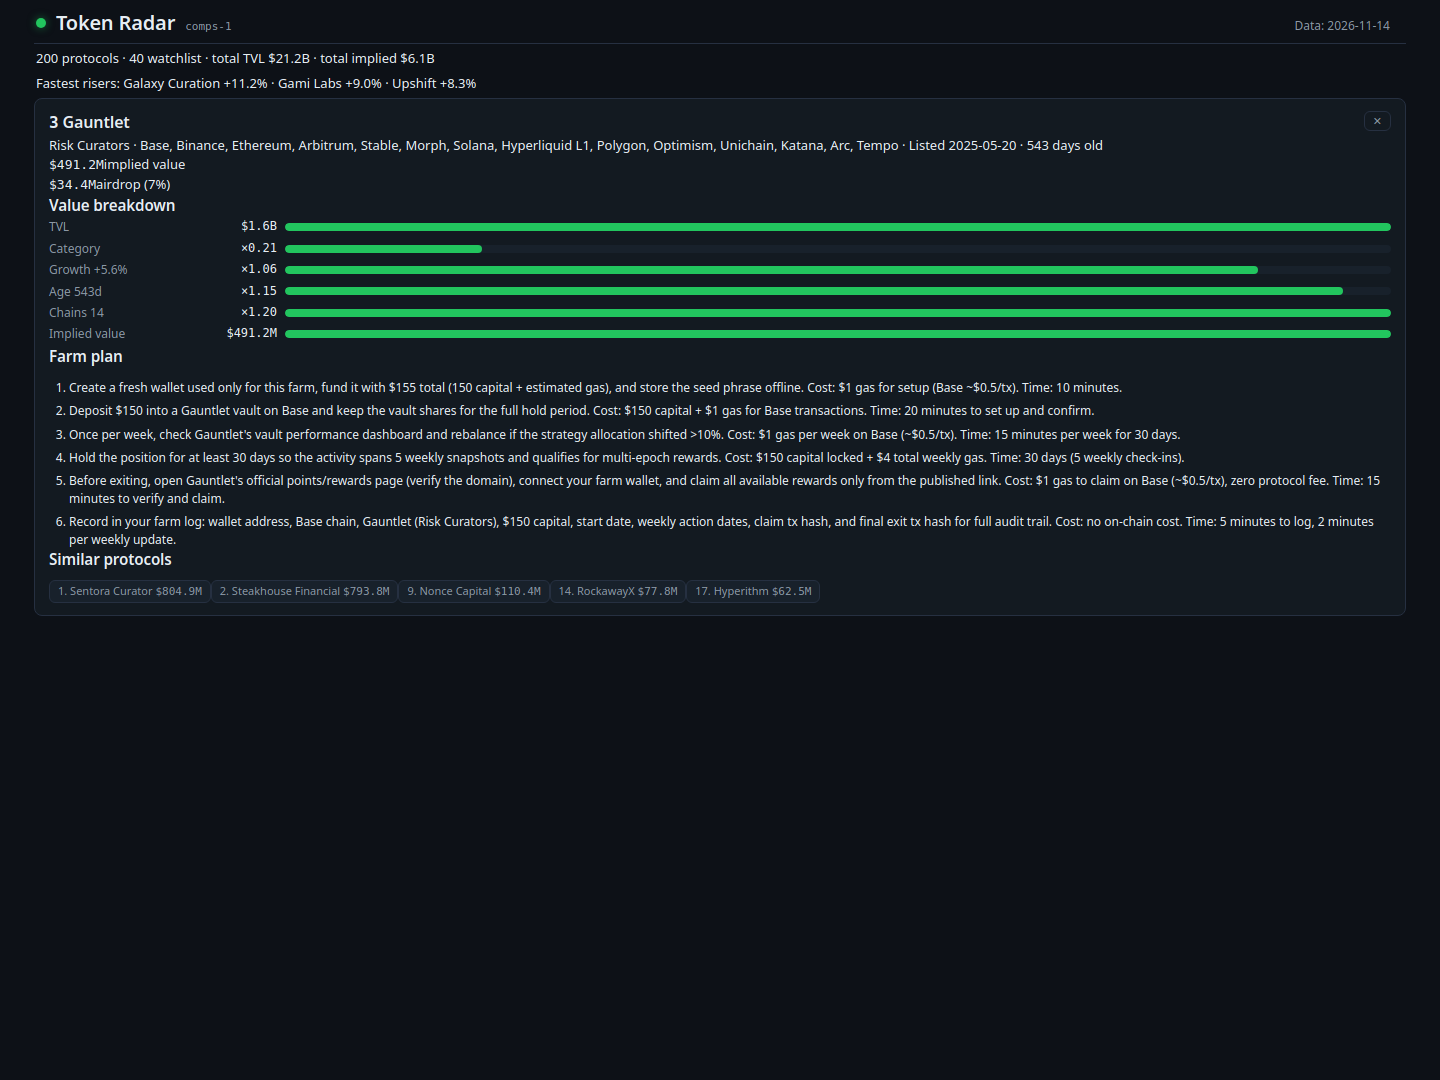
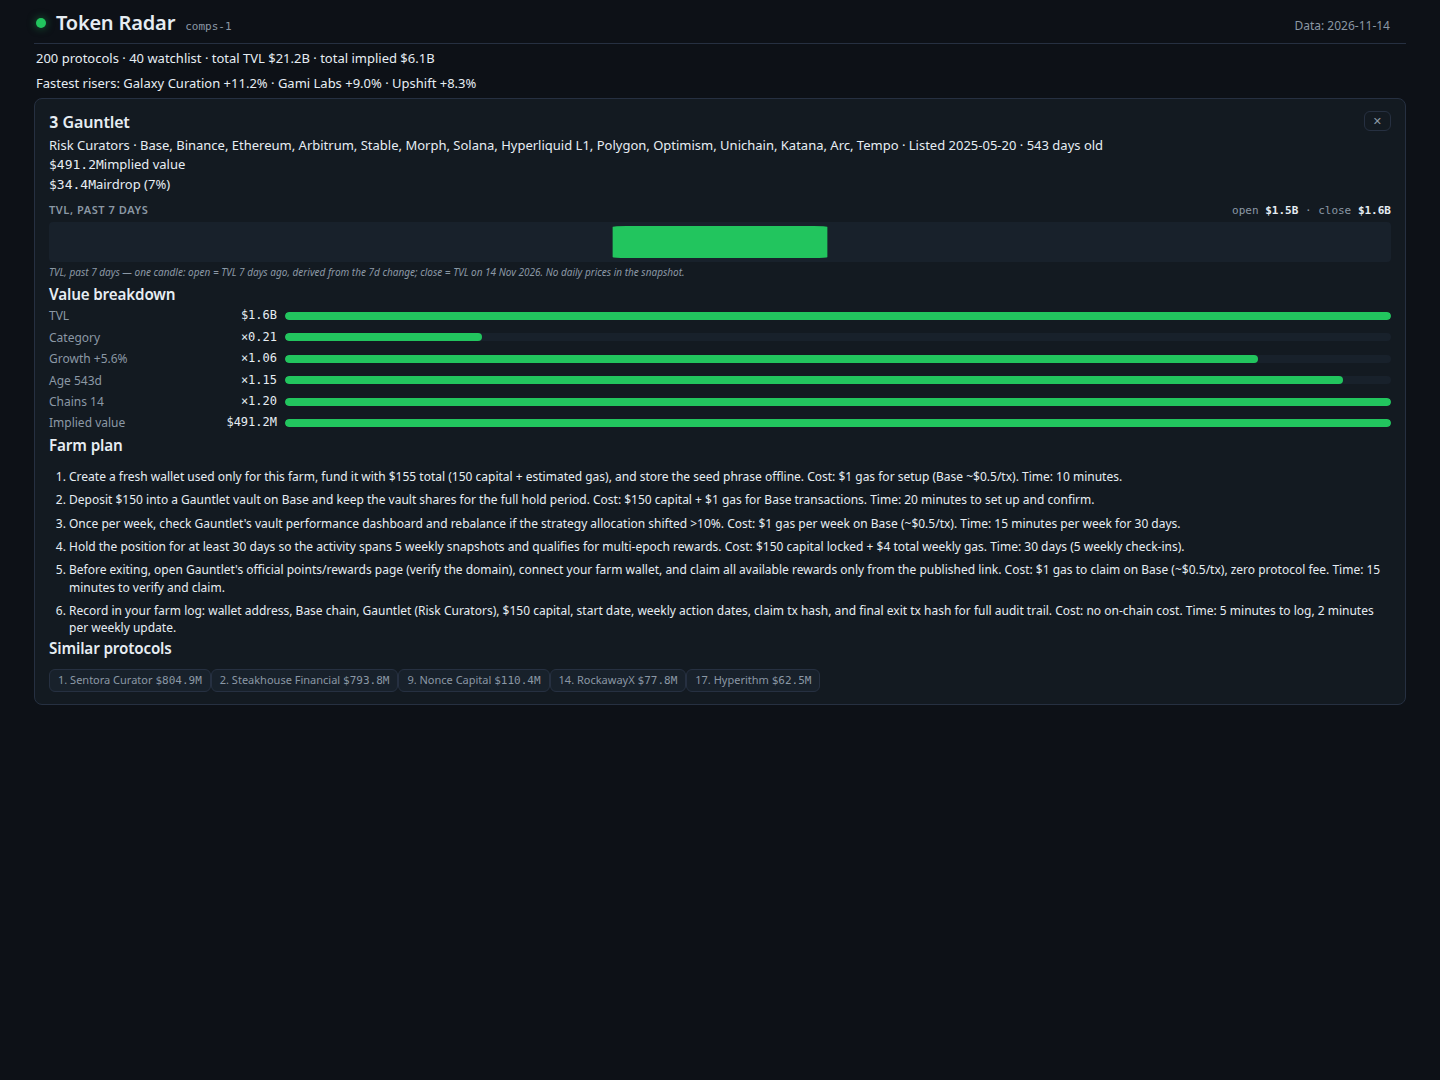
Fase 5: hero shot lengkap (From/Risk, filter, metodologi, candle TVL 1 minggu) + screenshot metodologi (4 shots)

Changed region(s): [[0.0312, 0.1833, 0.9688, 0.6417]]

diff --git a/dashboard/app.css b/dashboard/app.css
@@ -181,6 +181,18 @@ button { cursor: pointer; }
 .breakdown-row .br-label { width: 150px; flex: none; color: var(--muted); }
 .breakdown-row .br-mult { font-family: var(--font-num); width: 70px; text-align: right; flex: none; }
 .breakdown-row .br-bar { flex: 1; }
+/* One-candle TVL chart: open derived from the 7d change, close = current TVL. */
+.tvl-candle { margin: 8px 0 4px; }
+.tvl-candle-top { display: flex; align-items: baseline; justify-content: space-between; gap: 8px; }
+.tvl-candle-top .tvl-title { color: var(--muted); font-size: 11px; font-weight: 600; text-transform: uppercase; letter-spacing: 0.05em; }
+.tvl-candle-nums { font-family: var(--font-num); font-size: 11px; color: var(--muted); }
+.tvl-candle-nums b { color: var(--ink); font-weight: 600; }
+.tvl-svg { display: block; width: 100%; height: 40px; margin: 3px 0; background: var(--surface2); border-radius: 4px; }
+.tvl-candle-body.up { fill: var(--accent); }
+.tvl-candle-body.down { fill: var(--negative); }
+.tvl-candle-note { color: var(--muted); font-size: 10px; line-height: 1.4; font-style: italic; }
+.tvl-candle-empty { color: var(--muted); font-size: 11px; font-style: italic; margin: 6px 0; }
+
 .peers { margin-top: 10px; }
 .peers h3 { font-size: 12px; color: var(--muted); text-transform: uppercase; letter-spacing: 0.05em; margin-bottom: 4px; }
 .peers-list { display: flex; flex-wrap: wrap; gap: 6px; }
@@ -206,6 +218,21 @@ button { cursor: pointer; }
 .method p, .method li { font-size: 12px; color: var(--muted); line-height: 1.5; }
 .method .formula { font-family: var(--font-num); color: var(--ink); font-size: 11px; background: var(--surface2); border-radius: 6px; padding: 6px 10px; margin: 6px 0; display: block; overflow-x: auto; white-space: nowrap; }
 .method ul { margin: 4px 0 0; padding-left: 18px; }
+.method .cat-multiples, .method .method-honest { display: none; }
+.method .cat-multiples { margin-top: 8px; }
+.method .cat-multiples h3 {
+  font-size: 11px; color: var(--muted); text-transform: uppercase;
+  letter-spacing: 0.05em; margin-bottom: 4px;
+}
+.multiples { width: 100%; border-collapse: collapse; font-size: 11.5px; }
+.multiples td { padding: 1px 10px 1px 0; vertical-align: middle; white-space: nowrap; }
+.multiples .cat-name { color: var(--ink); }
+.multiples .cat-mult { color: var(--accent); font-family: var(--font-num); font-variant-numeric: tabular-nums; }
+.multiples .global-tag { color: var(--muted); font-size: 10px; font-style: italic; }
+.method .method-honest {
+  margin-top: 8px; padding-top: 6px; border-top: 1px solid var(--border);
+  color: var(--muted); font-style: italic;
+}
 
 /* Live-token section */
 .live { margin-top: 12px; border: 1px solid var(--border); border-radius: var(--radius); background: var(--surface); overflow: hidden; }
@@ -229,18 +256,45 @@ button { cursor: pointer; }
 
 /* Hero / command-center view (?view=hero): one 1440x1080 frame. */
 .hero .shell { max-width: 1400px; display: grid; grid-template-columns: minmax(0, 1.55fr) minmax(0, 1fr); column-gap: 14px; }
-.hero .top, .hero #stats, .hero #risers, .hero #live { grid-column: 1 / -1; }
-.hero #tabs, .hero #howto, .hero #filters, .hero #method, .hero #honest { display: none; }
-.hero .board-wrap { grid-column: 1; grid-row: 4; }
-.hero #detail { grid-column: 2; grid-row: 4; margin-top: 0; }
-.hero #live { grid-row: 5; margin-top: 10px; padding: 6px 12px; font-size: 11.5px; color: var(--muted); }
+.hero .top { grid-column: 1 / -1; grid-row: 1; }
+.hero #stats { grid-column: 1 / -1; grid-row: 2; }
+.hero #risers { grid-column: 1 / -1; grid-row: 3; }
+.hero #tabs, .hero #howto { display: none; }
+.hero #filters {
+  display: flex; flex-wrap: nowrap; align-items: center; gap: 6px;
+  grid-column: 1 / -1; grid-row: 4; padding: 3px 2px 5px;
+  min-width: 0; overflow: hidden;
+}
+.hero #filters .chips { display: flex; flex-wrap: nowrap; gap: 6px; flex: 1 1 auto; min-width: 0; overflow: hidden; }
+.hero #filters input[type="search"], .hero #filters input[type="text"], .hero #filters select, .hero #filters > .chip { flex: none; }
+.hero #filters input[type="search"], .hero #filters input[type="text"] { width: 160px; }
+.hero .board-wrap { grid-column: 1; grid-row: 5; }
+.hero #detail { grid-column: 2; grid-row: 5; margin-top: 0; }
+.hero #live { grid-column: 1 / -1; grid-row: 6; margin-top: 8px; padding: 5px 12px; font-size: 11.5px; color: var(--muted); }
 .hero #live strong { color: var(--accent); }
-.hero .board th:nth-child(8), .hero .board td:nth-child(8),
-.hero .board th:nth-child(9), .hero .board td:nth-child(9),
-.hero .board th:nth-child(10), .hero .board td:nth-child(10) { display: none; }
-.hero .board { font-size: 11px; }
-.hero .board tbody td { padding: 2px 6px; }
-.hero .detail { padding: 10px 12px; }
+.hero #method {
+  display: block; grid-column: 1 / -1; grid-row: 7;
+  margin-top: 8px; padding: 5px 10px;
+}
+.hero #method h2 { font-size: 12px; margin-bottom: 2px; }
+.hero #method .cat-multiples, .hero #method .method-honest { display: none; }
+.hero #method p {
+  display: -webkit-box; -webkit-line-clamp: 2; -webkit-box-orient: vertical;
+  overflow: hidden; font-size: 11px; line-height: 1.4;
+}
+.hero .board th:nth-child(8), .hero .board td:nth-child(8) { display: none; }
+.hero .board { font-size: 11px; table-layout: fixed; width: 100%; }
+.hero .board th, .hero .board td { padding: 1px 4px; }
+.hero .board thead th { font-size: 9.5px; padding: 3px 4px; }
+.hero .board tbody tr { height: 22px; }
+.hero .board td.name { max-width: 150px; }
+.hero .board td.cat { max-width: 74px; }
+.hero .board th:nth-child(1), .hero .board td:nth-child(1) { width: 32px; }
+.hero .board th:nth-child(3), .hero .board td:nth-child(3) { width: 78px; }
+.hero .board th:nth-child(9), .hero .board td:nth-child(9) { width: 56px; }
+.hero .board th:nth-child(10), .hero .board td:nth-child(10) { width: 74px; }
+.hero .honest { padding: 4px 8px; font-size: 10px; }
+.hero .detail { padding: 8px 10px; }
 .hero .detail h2 { font-size: 15px; }
 .hero .detail .steps li { font-size: 11.5px; }
 .hero .detail .breakdown-row { font-size: 11.5px; }
@@ -251,6 +305,14 @@ button { cursor: pointer; }
 /* Detail-only view (?view=detail&detail=<slug>): hide the board, show the panel at top. */
 .detail-view .board-wrap, .detail-view #tabs, .detail-view #howto, .detail-view #filters, .detail-view #method, .detail-view #live { display: none; }
 .detail-view #detail { margin-top: 0; }
+
+/* Methodology-only view (?view=method): hide the board, show the method box full-width and readable. */
+.method-view .board-wrap, .method-view #tabs, .method-view #howto, .method-view #filters,
+.method-view #detail, .method-view #live { display: none; }
+.method-view #method { margin-top: 10px; padding: 12px 16px; }
+.method-view #method p { font-size: 12.5px; }
+.method-view .cat-multiples { margin-top: 10px; }
+.method-view .method .cat-multiples, .method-view .method .method-honest { display: block; }
 
 /* Hide the empty detail panel until a row is clicked. */
 .detail:empty { display: none; }

diff --git a/dashboard/app.js b/dashboard/app.js
@@ -8,6 +8,7 @@
   var PARAM_CATEGORY = PARAMS.get('category') || '';
   var PARAM_DETAIL = PARAMS.get('detail') || '';
   var DETAIL_VIEW = PARAMS.get('view') === 'detail';
+  var METHOD_VIEW = PARAMS.get('view') === 'method';
   if (PARAM_CATEGORY) S.category = PARAM_CATEGORY;
 
   function esc(s) {
@@ -61,10 +62,50 @@
     }
   }
 
+  var HONEST_TEXT = 'Implied value is an estimate from 14 Nov 2026 data, not a promise a token will launch.';
+
+  function categoryMultiplesHtml() {
+    var seen = {}, cats = [];
+    rows.forEach(function (r) {
+      var c = r.category || 'Uncategorized';
+      if (!(c in seen)) { seen[c] = r.category_multiple; cats.push(c); }
+    });
+    var freq = {};
+    cats.forEach(function (c) { var k = String(seen[c]); freq[k] = (freq[k] || 0) + 1; });
+    var globalKey = null, gmax = -1;
+    Object.keys(freq).forEach(function (k) {
+      if (freq[k] > gmax) { gmax = freq[k]; globalKey = k; }
+    });
+    var list = cats.map(function (c) {
+      return { name: c, mult: seen[c], global: String(seen[c]) === globalKey };
+    }).sort(function (a, b) {
+      return b.mult - a.mult || a.name.localeCompare(b.name);
+    });
+    function fmt(v) { return '\u00d7' + Number(v).toFixed(2).replace('.', ','); }
+    var half = Math.ceil(list.length / 2);
+    var html = '<div class="cat-multiples"><h3>Category multiples used by the board</h3><table class="multiples"><tbody>';
+    for (var i = 0; i < half; i++) {
+      html += '<tr>';
+      for (var col = 0; col < 2; col++) {
+        var item = list[col === 0 ? i : i + half];
+        if (!item) { html += '<td></td>'; continue; }
+        html += '<td><span class="cat-name">' + esc(item.name) + '</span> ' +
+          '<span class="cat-mult">' + fmt(item.mult) + '</span>' +
+          (item.global ? ' <span class="global-tag">global median</span>' : '') + '</td>';
+      }
+      html += '</tr>';
+    }
+    return html + '</tbody></table></div>';
+  }
+
   function renderHowto() {
     $('howto').textContent = 'Click a row for detail. Click a header to sort.';
-    $('honest').textContent = 'Implied value is an estimate from 14 Nov 2026 data, not a promise a token will launch.';
-    $('method').innerHTML = '<p>Implied value = TVL × category multiple (median mcap/TVL of live-token peers in the same category; categories with fewer than 3 live-token peers use the global median) × growth (7-day change, clamped ±30%) × age (1 + 10% per year, max 2 years) × chains (1 + 5% per chain, max 4 chains). Airdrop value = 7% of implied value. The board ranks 200 protocols: 40 watchlist + 18 off-list (pre-token, at or above the $50M floor, left out by the watchlist rule) + 142 below the floor.</p>';
+    $('honest').textContent = HONEST_TEXT;
+    $('method').innerHTML =
+      '<h2>Methodology</h2>' +
+      '<p class="method-formula">Implied value = TVL \u00d7 category multiple (median mcap/TVL of live-token peers in the same category; categories with fewer than 3 live-token peers use the global median) \u00d7 growth (7-day change, clamped \u00b130%) \u00d7 age (1 + 10% per year, max 2 years) \u00d7 chains (1 + 5% per chain, max 4 chains). Airdrop value = 7% of implied value. The board ranks 200 protocols: 40 watchlist + 18 off-list (pre-token, at or above the $50M floor, left out by the watchlist rule) + 142 below the floor.</p>' +
+      categoryMultiplesHtml() +
+      '<p class="method-honest">' + esc(HONEST_TEXT) + '</p>';
   }
 
   function renderFilters() {
@@ -138,9 +179,9 @@
       var rankCls = r.rank <= 3 ? ' medal-' + r.rank : '';
       tr.innerHTML =
         '<td class="num' + rankCls + '">' + esc(r.rank) + '</td>' +
-        '<td>' + esc(r.name) + (wl.has(r.slug) ? ' <span class="wl-dot" title="Watchlist"></span>' : '') +
+        '<td class="name">' + esc(r.name) + (wl.has(r.slug) ? ' <span class="wl-dot" title="Watchlist"></span>' : '') +
           (r.listed_at && r.listed_at >= '2026-01-01' ? ' <span class="badge-new">NEW</span>' : '') + '</td>' +
-        '<td>' + esc(r.category) + '</td>' +
+        '<td class="cat">' + esc(r.category) + '</td>' +
         '<td class="num">' + money(r.tvl_usd) + '</td>' +
         '<td class="num ' + changeCls + '">' + pct(r.change_7d) + '</td>' +
         '<td class="num">' + money(r.implied_value_usd) + '</td>' +
@@ -202,6 +243,9 @@
 
   if (DETAIL_VIEW) {
     document.body.classList.add('detail-view');
+  }
+  if (METHOD_VIEW) {
+    document.body.classList.add('method-view');
   }
   window.addEventListener('load', function () {
     if (!HERO && PARAM_DETAIL && typeof window.showDetail === 'function') window.showDetail(PARAM_DETAIL);

diff --git a/lib/model.ts b/lib/model.ts
@@ -108,6 +108,7 @@ export interface BoardRow {
   age_days: number | null;
   implied_value_usd: number;
   airdrop_value_usd: number;
+  starting_capital_usd: number;
   model: {
     category_multiple: number;
     growth_pct: number;
@@ -322,7 +323,7 @@ for (const p of offList) chosen.set(p.slug, p);
   const comps = compsOf(snapshot.protocols);
   const scored = [...chosen.values()].map((p) => ({ p, result: scoreProtocol(p, snapshot.as_of, comps, model) }));
   scored.sort((a, b) => b.result.implied - a.result.implied || (a.p.slug < b.p.slug ? -1 : a.p.slug > b.p.slug ? 1 : 0));
-  return scored.map((s, i) => ({
+  const rows: BoardRow[] = scored.map((s, i) => ({
     rank: i + 1,
     slug: s.p.slug,
     name: s.p.name,
@@ -347,7 +348,32 @@ for (const p of offList) chosen.set(p.slug, p);
       age_days: s.result.age,
     },
     farm_steps: farmSteps(s.p, s.result.age).map(stepText),
+    starting_capital_usd: 0,
   }));
+
+  // The starting capital each row's farm plan records, parsed from step 1's text; null when unparseable.
+  const parsed = rows.map((r) => capitalFromStep(r.farm_steps[0] ?? ''));
+  const byCategory = new Map<string, number[]>();
+  const allParsed: number[] = [];
+  for (let i = 0; i < rows.length; i++) {
+    const v = parsed[i];
+    if (v === null) continue;
+    allParsed.push(v);
+    const key = rows[i]!.category ?? '';
+    const peers = byCategory.get(key);
+    if (peers === undefined) byCategory.set(key, [v]);
+    else peers.push(v);
+  }
+  const globalFallback = Math.round(median(allParsed));
+  for (let i = 0; i < rows.length; i++) {
+    const v = parsed[i];
+    if (v !== null) rows[i]!.starting_capital_usd = v;
+    else {
+      const peers = byCategory.get(rows[i]!.category ?? '');
+      rows[i]!.starting_capital_usd = peers !== undefined && peers.length > 0 ? Math.round(median(peers)) : globalFallback;
+    }
+  }
+  return rows;
 }
 
 
@@ -527,6 +553,17 @@ export function farmSteps(p: SnapshotProtocol, age: number | null): FarmStep[] {
   ];
 }
 
+/** The capital figure a farm plan's step 1 records: the dollars in parentheses before "capital". */
+const CAPITAL_IN_STEP = /\((\d[\d,]*) capital/;
+
+/** The whole-dollar capital a farm plan's step 1 text records, or null when it does not parse. */
+function capitalFromStep(step: string): number | null {
+  const m = CAPITAL_IN_STEP.exec(step);
+  if (m === null) return null;
+  const n = Number(m[1]!.replace(/,/g, ''));
+  return Number.isFinite(n) ? n : null;
+}
+
 /** The live-token protocols, by market cap, for the dashboard's Live token view. */
 export function liveRows(snapshot: Snapshot): LiveRow[] {
   return snapshot.protocols
@@ -564,7 +601,7 @@ export function radarRow(row: BoardRow): RadarRow {
     growth_multiplier: row.model.growth_multiplier,
     age_multiplier: row.model.age_multiplier,
     chain_multiplier: row.model.chain_multiplier,
-    starting_capital_usd: startingCapitalUsd(row.tvl_usd),
+    starting_capital_usd: row.starting_capital_usd,
     farm_steps: row.farm_steps.slice(),
   };
 }

diff --git a/dashboard/detail.js b/dashboard/detail.js
@@ -56,6 +56,31 @@
         return '<button class="peer" data-slug="' + esc(p.slug) + '">' + esc(p.rank) + '. ' + esc(p.name) +
           ' <span class="num">' + money(p.implied_value_usd) + '</span></button>';
       }).join('');
+    var candleHtml;
+    if (r.change_7d != null && r.tvl_usd != null && (1 + r.change_7d / 100) !== 0) {
+      var open = r.tvl_usd / (1 + r.change_7d / 100);
+      var close = r.tvl_usd;
+      var hi = Math.max(open, close), lo = Math.min(open, close);
+      var up = close >= open;
+      var pad = 4, span = hi - lo;
+      var yOf = function (v) { return span > 0 ? pad + (1 - (v - lo) / span) * (40 - pad * 2) : 20; };
+      var topY = yOf(hi), botY = yOf(lo), bodyH = Math.max(3, botY - topY);
+      if (topY + bodyH > 40 - pad) topY = 40 - pad - bodyH;
+      candleHtml =
+        '<div class="tvl-candle">' +
+          '<div class="tvl-candle-top">' +
+            '<span class="tvl-title">TVL, past 7 days</span>' +
+            '<span class="tvl-candle-nums">open <b>' + money(open) + '</b> · close <b>' + money(close) + '</b></span>' +
+          '</div>' +
+          '<svg class="tvl-svg" viewBox="0 0 100 40" preserveAspectRatio="none" role="img" aria-label="TVL candle">' +
+            '<rect class="tvl-candle-body ' + (up ? 'up' : 'down') + '" x="42" y="' + topY.toFixed(2) +
+              '" width="16" height="' + bodyH.toFixed(2) + '" rx="1"></rect>' +
+          '</svg>' +
+          '<p class="tvl-candle-note">TVL, past 7 days — one candle: open = TVL 7 days ago, derived from the 7d change; close = TVL on 14 Nov 2026. No daily prices in the snapshot.</p>' +
+        '</div>';
+    } else {
+      candleHtml = '<div class="tvl-candle"><p class="tvl-candle-empty">No 7-day change on record, so no TVL candle.</p></div>';
+    }
     $('detail').innerHTML =
       '<button class="close-btn" title="Close">✕</button>' +
       '<h2><span class="num">' + esc(r.rank) + '</span> ' + esc(r.name) + '</h2>' +
@@ -65,6 +90,7 @@
         '<div><span class="big num">' + money(r.implied_value_usd) + '</span><span class="vlabel">implied value</span></div>' +
         '<div><span class="big num">' + money(r.airdrop_value_usd) + '</span><span class="vlabel">airdrop (7%)</span></div>' +
       '</div>' +
+      candleHtml +
       '<h3>Value breakdown</h3>' +
       factors.map(function (f) { return barRow(f[0], f[1], f[2], maxlog, f[3]); }).join('') +
       '<h3>Farm plan</h3>' +
